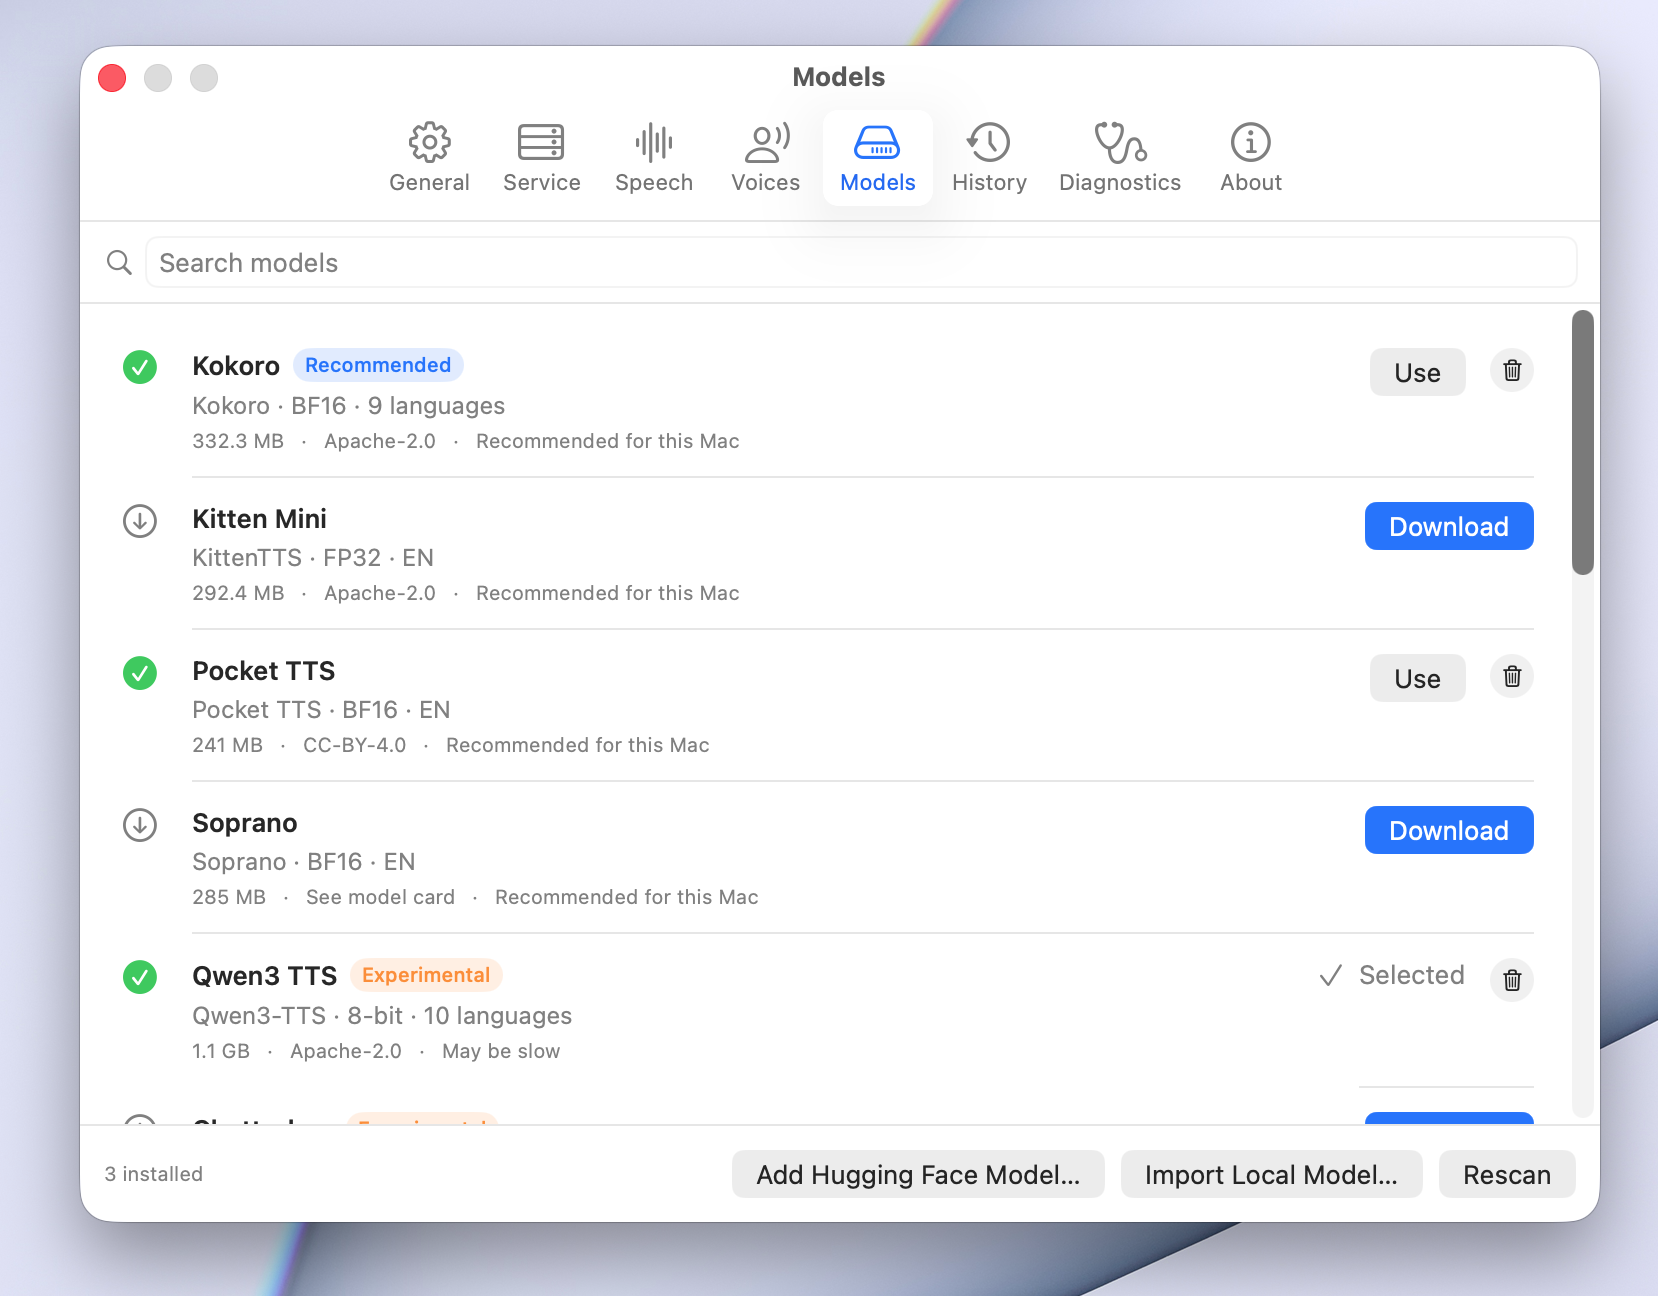
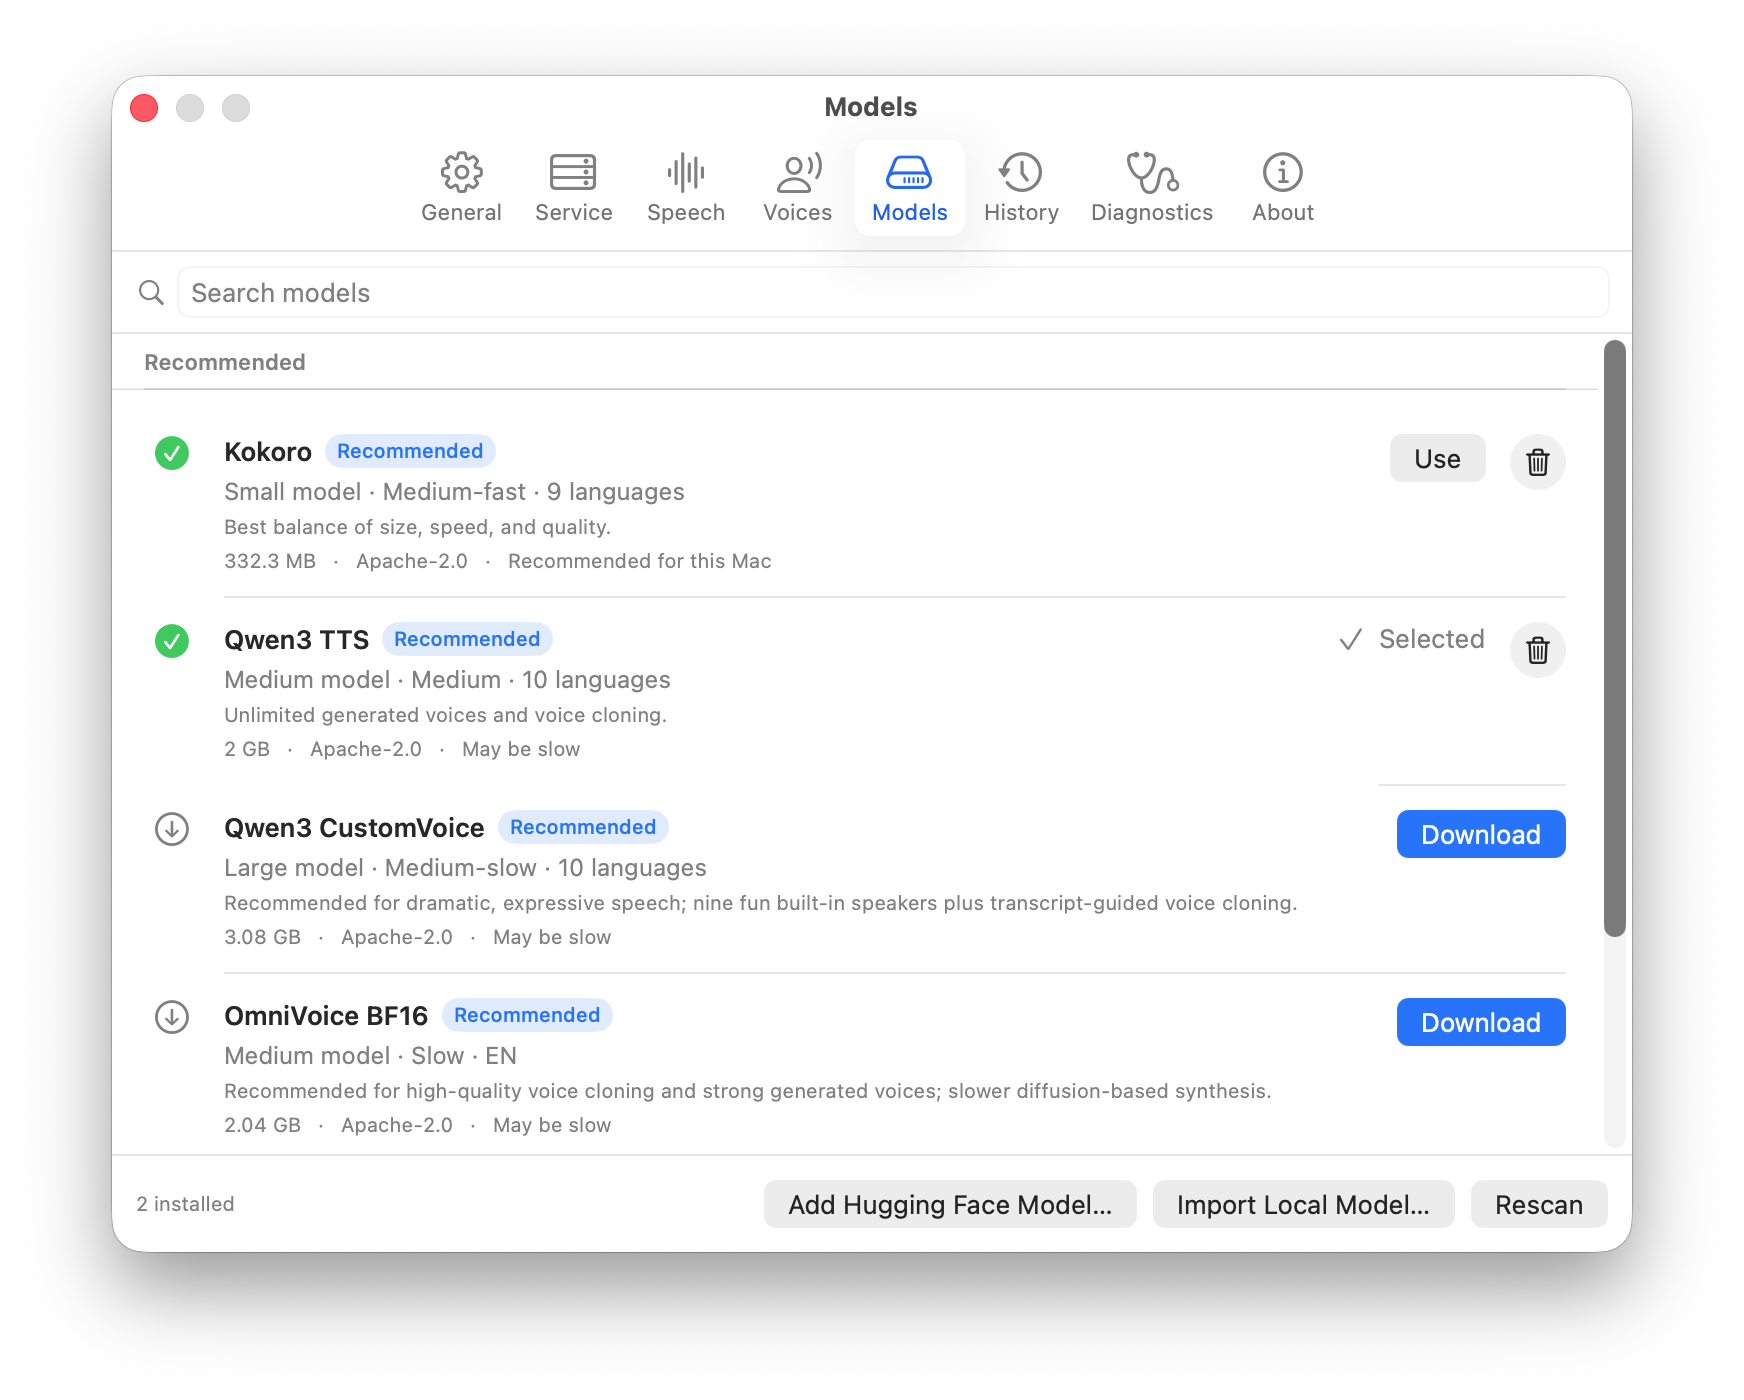
Add landing page with live demo field and screenshot showcase

diff --git a/public/index.html b/public/index.html
@@ -69,13 +69,17 @@
 
   html, body {
     height: 100%;
-    overflow: hidden;
+    overflow-x: hidden;
     background: var(--bg);
     color: var(--fg);
     font-family: var(--sans);
     -webkit-font-smoothing: antialiased;
     text-rendering: optimizeLegibility;
     transition: background-color 300ms ease, color 300ms ease;
+  }
+
+  @media (prefers-reduced-motion: no-preference) {
+    html { scroll-behavior: smooth; }
   }
 
   ::selection { background: var(--fg); color: var(--bg); }
@@ -419,6 +423,116 @@
     .cta { margin-top: 20px; }
   }
 
+  /* ---------- showcase ---------- */
+
+  .showcase {
+    position: relative;
+    z-index: 2;
+    background: var(--bg);
+    border-top: 1px solid var(--line);
+    transition: background-color 300ms ease;
+  }
+
+  .showcase-inner {
+    max-width: 1180px;
+    margin: 0 auto;
+    padding: clamp(90px, 16vh, 150px) 28px clamp(80px, 13vh, 130px);
+  }
+
+  .showcase .eyebrow { margin-bottom: 20px; }
+
+  .showcase-title {
+    font-size: clamp(32px, 4.4vw, 56px);
+    font-weight: 640;
+    letter-spacing: -0.035em;
+    line-height: 1.05;
+  }
+
+  .showcase-sub {
+    margin-top: 20px;
+    max-width: 56ch;
+    font-size: 15.5px;
+    line-height: 1.6;
+    color: var(--fg-muted);
+  }
+
+  .shots {
+    margin-top: clamp(54px, 9vh, 92px);
+    padding-bottom: clamp(36px, 5vw, 60px);
+    display: flex;
+    justify-content: center;
+    align-items: flex-start;
+    gap: clamp(24px, 3vw, 44px);
+    /* one shared height so both windows match: sum of aspect ratios is 2.201 */
+    --h: min(470px, calc((min(1124px, 100vw - 56px) - 44px) / 2.201));
+  }
+
+  .shot {
+    margin: 0;
+    clip-path: inset(0 0 100% 0);
+    opacity: 0;
+    transition: clip-path 900ms cubic-bezier(0.77, 0, 0.175, 1), opacity 500ms ease;
+    transition-delay: var(--rd, 0ms);
+  }
+
+  .shot.is-in { clip-path: inset(0 0 0 0); opacity: 1; }
+
+  .shot img {
+    display: block;
+    width: auto;
+    height: var(--h);
+    transform: scale(1.05);
+    transition: transform 1200ms var(--ease-out);
+    transition-delay: var(--rd, 0ms);
+  }
+
+  .shot.is-in img { transform: scale(1); }
+
+  /* shadows are baked into the transparent PNGs; dark mode swaps the asset */
+  .shot .img-dark { display: none; }
+
+  [data-theme="dark"] .shot .img-dark { display: block; }
+  [data-theme="dark"] .shot .img-light { display: none; }
+
+  .shot figcaption {
+    margin-top: 14px;
+    font-family: var(--mono);
+    font-size: 11.5px;
+    letter-spacing: 0.04em;
+    color: var(--fg-muted);
+  }
+
+  .shot figcaption .idx { color: var(--fg-faint); margin-right: 10px; }
+
+  .closing {
+    margin-top: clamp(40px, 7vh, 72px);
+    display: flex;
+    flex-direction: column;
+    align-items: center;
+    gap: 20px;
+    text-align: center;
+  }
+
+  .closing p { color: var(--fg-muted); font-size: 15px; }
+
+  @media (max-width: 860px) {
+    .shots { display: block; padding-bottom: 0; }
+    .shot { height: auto; }
+    .shot img { width: 100%; height: auto; }
+    .shot-models { margin-top: 28px; }
+  }
+
+  /* ---------- scroll reveal ---------- */
+
+  .reveal {
+    opacity: 0;
+    transform: translateY(14px);
+    transition: opacity 560ms ease, transform 560ms var(--ease-out);
+    transition-delay: var(--rd, 0ms);
+  }
+
+  .reveal.is-in { opacity: 1; transform: none; }
+
   /* ---------- entrance ---------- */
 
   .rise {
@@ -443,6 +557,9 @@
     .theme-toggle { transition: border-color 160ms ease, color 160ms ease; }
     .theme-toggle svg { transition: opacity 180ms ease; transform: none; }
     html, body { transition: none; }
+    .reveal { transform: none; transition: opacity 300ms ease; transition-delay: 0ms; }
+    .shot { clip-path: inset(0 0 0 0); transition: opacity 300ms ease; transition-delay: 0ms; }
+    .shot img { transform: none; transition: none; }
   }
 </style>
 </head>
@@ -486,8 +603,8 @@
       your words never leave the machine.
     </p>
     <div class="cta rise" style="--d:330ms">
-      <a class="btn btn-primary" id="downloadBtn"
-         href="https://github.com/callebtc/sayit/releases/download/v0.1.3/SayIt-0.1.3.dmg"
+      <a class="btn btn-primary js-download"
+         href="https://github.com/callebtc/sayit/releases/download/v1.0.0/SayIt-1.0.0.dmg"
          rel="noopener">
         <svg width="14" height="14" viewBox="0 0 16 16" fill="none" stroke="currentColor" stroke-width="1.6" stroke-linecap="round" stroke-linejoin="round" aria-hidden="true">
           <path d="M8 2.5v8m0 0L4.75 7.25M8 10.5l3.25-3.25M2.5 13.5h11"/>
@@ -503,7 +620,8 @@
     </div>
     <p class="micro rise" style="--d:400ms">
       macOS 15+ · Apple silicon · Free &amp; open source ·
-      <a href="https://github.com/callebtc/sayit/releases" target="_blank" rel="noopener" id="versionNote">v0.1.3</a>
+      <a href="https://github.com/callebtc/sayit/releases" target="_blank" rel="noopener" id="versionNote">v1.0.0</a> ·
+      <a href="#how">see it in action</a>
     </p>
   </main>
 
@@ -533,11 +651,57 @@
 
 </div>
 
+<section class="showcase" id="how">
+  <div class="showcase-inner">
+    <p class="eyebrow reveal">A first look</p>
+    <h2 class="showcase-title reveal" style="--rd:70ms">Press a hotkey. It&nbsp;reads.</h2>
+    <p class="showcase-sub reveal" style="--rd:140ms">
+      The player floats in your menu bar — follow the spoken word, scrub the
+      waveform, change the speed. Models download once from Hugging Face and
+      speak offline from then on.
+    </p>
+
+    <div class="shots">
+      <figure class="shot shot-player" style="--rd:120ms">
+        <img class="img-light" src="resources/player.png"
+             alt="SayIt's menu-bar player showing a waveform, playback controls, and the spoken text with the current word highlighted"
+             width="812" height="850" loading="lazy" decoding="async">
+        <img class="img-dark" src="resources/player-dark.png"
+             alt="" aria-hidden="true"
+             width="812" height="850" loading="lazy" decoding="async">
+        <figcaption><span class="idx">01</span>The menu-bar player — waveform, seek, speed, history.</figcaption>
+      </figure>
+      <figure class="shot shot-models" style="--rd:280ms">
+        <img class="img-light" src="resources/models.png"
+             alt="SayIt's model library listing open MLX models with sizes, licenses, and download buttons"
+             width="1744" height="1400" loading="lazy" decoding="async">
+        <img class="img-dark" src="resources/models-dark.png"
+             alt="" aria-hidden="true"
+             width="1744" height="1400" loading="lazy" decoding="async">
+        <figcaption><span class="idx">02</span>The model library — open models, one download away.</figcaption>
+      </figure>
+    </div>
+
+    <div class="closing reveal">
+      <p>Free, open source, and yours.</p>
+      <a class="btn btn-primary js-download"
+         href="https://github.com/callebtc/sayit/releases/download/v1.0.0/SayIt-1.0.0.dmg"
+         rel="noopener">
+        <svg width="14" height="14" viewBox="0 0 16 16" fill="none" stroke="currentColor" stroke-width="1.6" stroke-linecap="round" stroke-linejoin="round" aria-hidden="true">
+          <path d="M8 2.5v8m0 0L4.75 7.25M8 10.5l3.25-3.25M2.5 13.5h11"/>
+        </svg>
+        Download for macOS
+      </a>
+    </div>
+  </div>
+</section>
+
 <script>
 (function () {
   "use strict";
 
   var reduceMotion = window.matchMedia("(prefers-reduced-motion: reduce)").matches;
+  var heroVisible = true;
 
   /* ------------------------------------------------------------------ */
   /* A medium where waves propagate: random disturbances rain into a 2D  */
@@ -822,10 +986,29 @@
       last = now;
       var dt = Math.min((now - prev) / 1000, 0.05);
       prev = now;
+      if (!heroVisible) return;             // field sleeps below the fold
       drawFrame((now - start) / 1000, dt);
     };
     requestAnimationFrame(loop);
   }
+
+  // Scroll reveals, once per element, 100px before entering the viewport
+  var revealObserver = new IntersectionObserver(function (entries) {
+    for (var i = 0; i < entries.length; i++) {
+      if (entries[i].isIntersecting) {
+        entries[i].target.classList.add("is-in");
+        revealObserver.unobserve(entries[i].target);
+      }
+    }
+  }, { rootMargin: "0px 0px -100px 0px", threshold: 0 });
+
+  var revealEls = document.querySelectorAll(".reveal, .shot");
+  for (var ri = 0; ri < revealEls.length; ri++) revealObserver.observe(revealEls[ri]);
+
+  var heroObserver = new IntersectionObserver(function (entries) {
+    heroVisible = entries[0].isIntersecting;
+  }, { threshold: 0.02 });
+  heroObserver.observe(document.querySelector(".page"));
 
   /* ------------------------------------------------------------------ */
   /* Theme toggle: explicit choice persists, otherwise follow the system */
@@ -900,14 +1083,13 @@
     .then(function (rel) {
       var asset = (rel.assets || []).find(function (a) { return /\.dmg$/i.test(a.name); });
       if (asset) {
-        document.getElementById("downloadBtn").href = asset.browser_download_url;
+        var dls = document.querySelectorAll(".js-download");
+        for (var d = 0; d < dls.length; d++) dls[d].href = asset.browser_download_url;
         var note = document.getElementById("versionNote");
         if (note && rel.tag_name) note.textContent = rel.tag_name;
       }
     })
-    .catch(function () {
-      document.getElementById("downloadBtn").href = MOCK_DMG; // mock stays
-    });
+    .catch(function () { /* mocked DMG links stay */ });
 })();
 </script>
 
